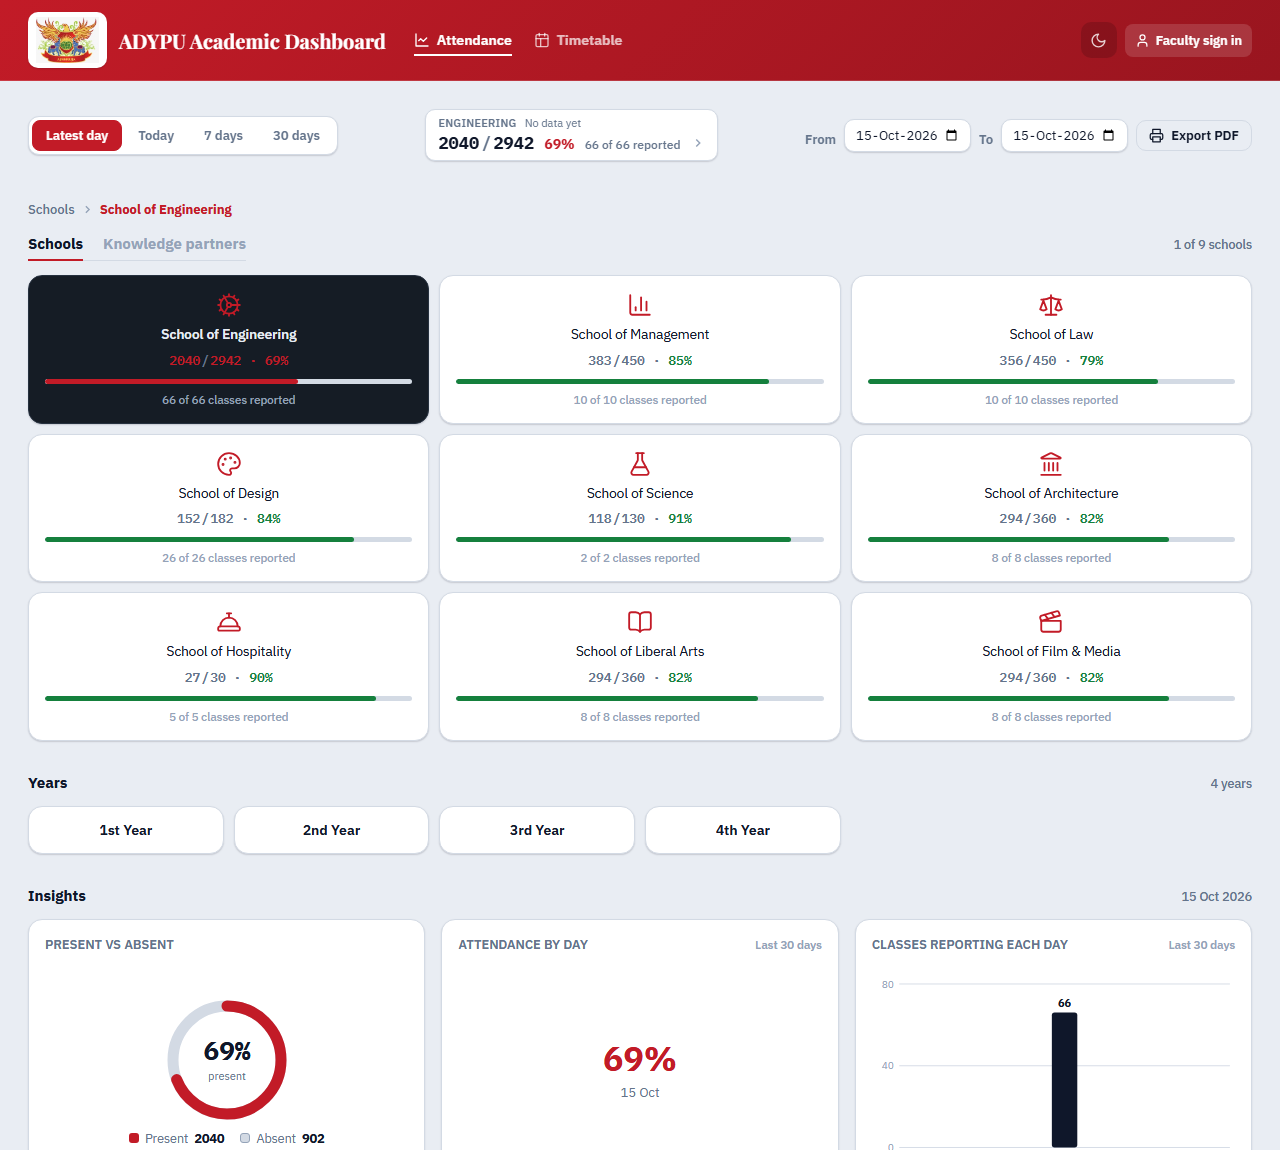
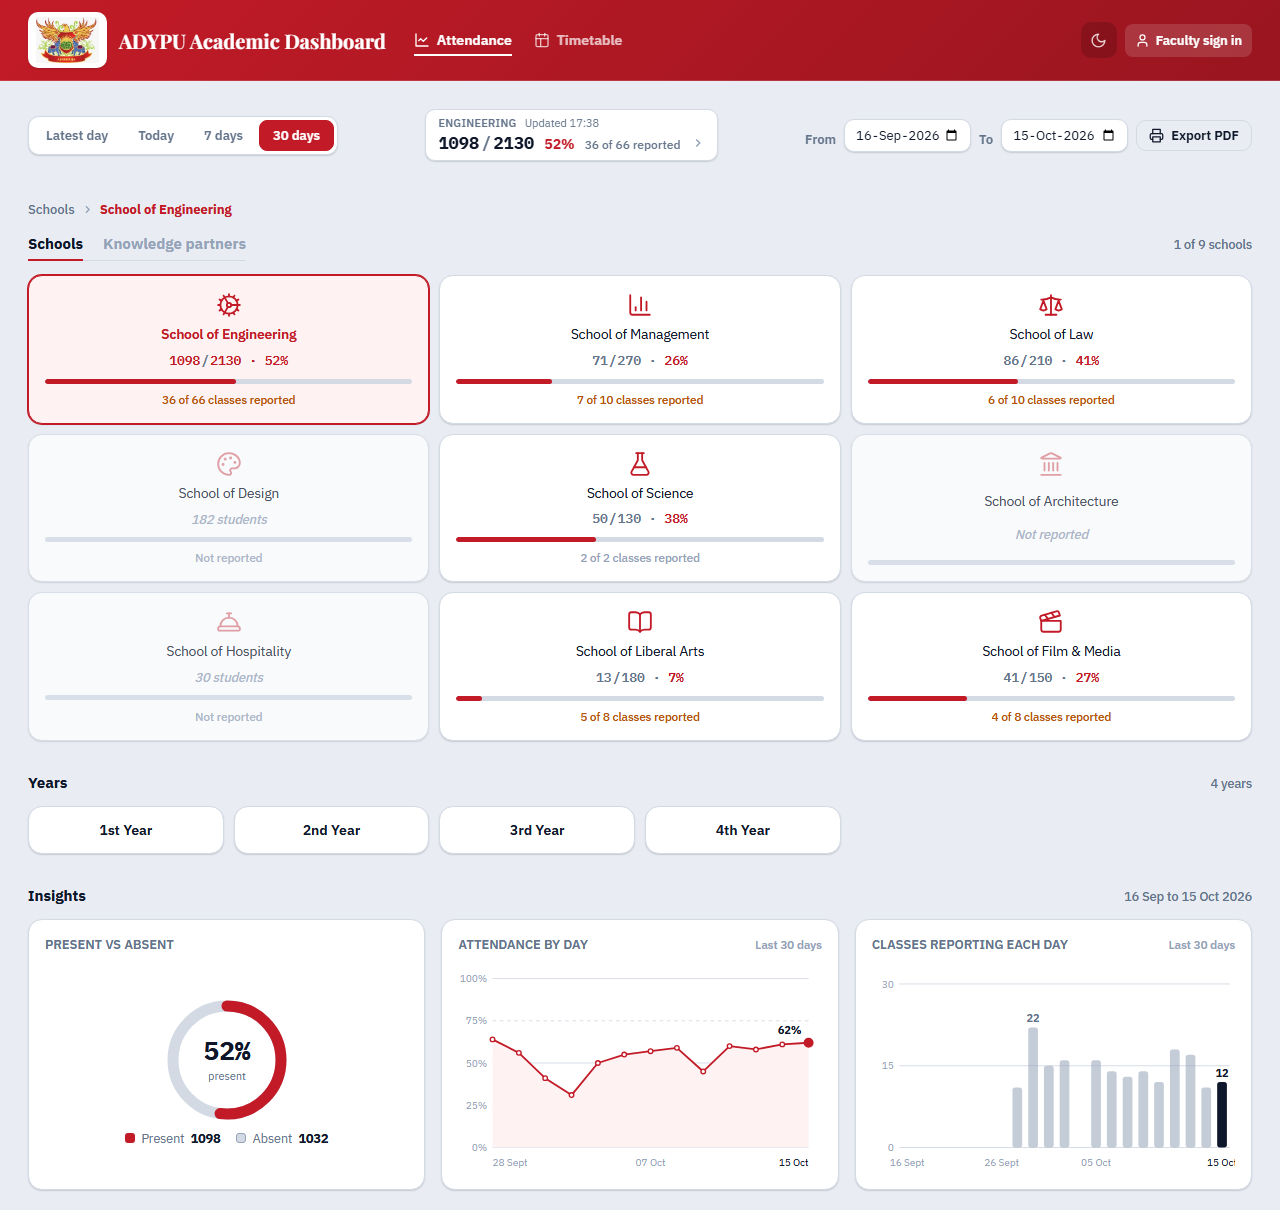
Retake the README screenshots from the live site over 30 days

diff --git a/README.md b/README.md
@@ -6,8 +6,6 @@ Daily attendance and room timetables for Ajeenkya D Y Patil University.
 
 ![The dashboard](docs/screenshots/dashboard.png)
 
-<sub>Figures in the screenshots are sample data.</sub>
-
 ## Attendance
 
 - **Honest numbers.** Present against the strength of the classes that reported, always shown with how many reported.
